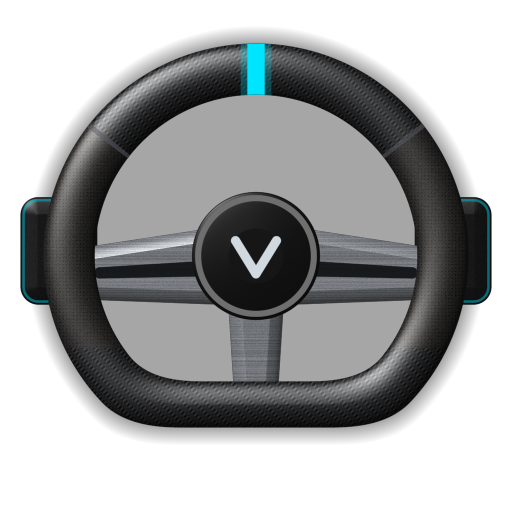
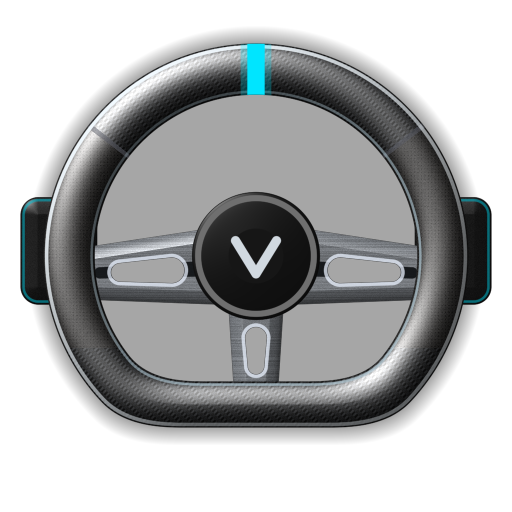
Translucent steering wheel: 40% idle, 72% held with timed fades, spoke cutouts and rim lighting, lerp_angle spring-back
Claude-Session: https://claude.ai/code/session_014izHVAaB3ZdP2HfL8CMfu2

Changed region(s): [[0.0625, 0.0625, 0.9375, 0.8438], [0.3125, 0.2188, 0.3438, 0.25], [0.2188, 0.3125, 0.25, 0.3438]]

diff --git a/tools/build_steering_wheel.py b/tools/build_steering_wheel.py
@@ -2,8 +2,10 @@
 
 Writes godot/assets/ui/controls/steering_wheel.png, 512x512 RGBA, drawn
 procedurally (no source art, so it is ours to license): carbon-fibre top
-section, perforated leather grips, brushed-metal spokes, paddle shifters
-behind the horizontal spokes and a cyan 12 o'clock stripe. Rendered at 2x and
+section, perforated leather grips, brushed-metal spokes with see-through
+cutouts, paddle shifters behind the horizontal spokes, high-contrast
+specular rim lighting and a cyan 12 o'clock stripe. The game shows it at
+40-72% opacity, so the bright edges carry the silhouette. Rendered at 2x and
 downsampled for clean edges. Lit from the upper left.
 
     python3 tools/build_steering_wheel.py
@@ -113,6 +115,16 @@ over(shade(height, base * 1.15, spec=0.8, shininess=35, ambient=0.4), a)
 # Dark inlay along the side spokes.
 inlay = np.minimum(bar(-0.11, 0.025, -(R_IN - 0.01), 0.033, 0.03, 0.022)[0], bar(0.11, 0.025, R_IN - 0.01, 0.033, 0.03, 0.022)[0])
 over(np.broadcast_to(np.array([0.05, 0.06, 0.07]), (N, N, 3)), coverage(inlay) * 0.9)
+# Hollow cutouts through the spokes: the road shows through them.
+slots = [bar(-0.165, 0.028, -0.265, 0.032, 0.05, 0.036)[0], bar(0.165, 0.028, 0.265, 0.032, 0.05, 0.036)[0],
+	bar(0.0, 0.16, 0.0, 0.215, 0.042, 0.032)[0]]
+slot_sdf = np.minimum.reduce(slots)
+cut = coverage(slot_sdf)
+# A bright chamfer around each cutout, lit from the upper left.
+chamfer = coverage(np.abs(slot_sdf - 0.004) - 0.0035) * (1 - cut)
+over(np.broadcast_to(np.array([0.92, 0.95, 1.0]), (N, N, 3)), chamfer * 0.75)
+rgb = rgb * (1 - cut[..., None])
+alpha = alpha * (1 - cut)
 
 # --- rim
 outer = smax(r - R_OUT, y - FLAT_OUT, 0.05)
@@ -137,12 +149,19 @@ gy = (y * 150.0) % 1.0 - 0.5
 dots = (np.hypot(gx, gy) < 0.2).astype(float)
 leather = (0.12 + 0.02 * rng.normal(0, 1, (N, N)))[..., None] * np.array([1.0, 0.97, 0.95]) - 0.05 * dots[..., None]
 base = np.where(top[..., None] | bottom[..., None], carbon, leather)
-lit = shade(tube, base * 1.6, spec=0.55, shininess=18, ambient=0.28)
+lit = shade(tube, base * 1.6, spec=0.85, shininess=14, ambient=0.26)
 over(lit, a)
 # Stitching where carbon meets leather: thin light seams across the rim.
 for edge_ang in (-52, 52):
     seam = np.abs(np.degrees(ang) - edge_ang) < 0.7
     over(np.broadcast_to(np.array([0.35, 0.36, 0.4]), (N, N, 3)), a * seam * 0.5)
+# High-contrast rim lighting: a crisp light line along the outer edge, bright
+# where it faces the light (upper left), and a fainter one along the inner edge.
+facing = np.clip(0.35 + 0.65 * (-(x * 0.6 + y * 0.8) / np.maximum(r, 1e-6)), 0, 1)
+outer_line = coverage(np.abs(outer + 0.006) - 0.0035) * a
+over(np.broadcast_to(np.array([0.95, 0.98, 1.0]), (N, N, 3)), outer_line * (0.35 + 0.65 * facing))
+inner_line = coverage(np.abs(inner - 0.006) - 0.0025) * a
+over(np.broadcast_to(np.array([0.75, 0.85, 0.9]), (N, N, 3)), inner_line * (0.25 + 0.4 * (1 - facing)))
 # The 12 o'clock stripe.
 stripe = coverage(np.maximum(np.abs(x) - 0.017, rim)) * (y < 0)
 over(np.broadcast_to(CYAN, (N, N, 3)), stripe)

diff --git a/README.md b/README.md
@@ -400,10 +400,13 @@ work. An item below that needs a Forward+-only feature is desktop-only.
     wheel sprite (`assets/ui/controls/steering_wheel.png`, 512 px, drawn by
     `tools/build_steering_wheel.py`: carbon top, perforated leather grips,
     brushed spokes, paddles, cyan 12 o'clock stripe) in the bottom left
-    corner, no box or arrows. It turns about its hub up to ±135° with the
-    thumb and eases back when released (plain easing, not `lerp_angle`,
-    which would take the "short" way round over 270° of lock), sits at
-    0.75 opacity until touched, and grabs touches within 1.2× its radius
+    corner, no box or arrows; its spokes have see-through cutouts and a
+    bright rim light keeps the outline legible. It turns about its hub up
+    to ±135° with the thumb and springs back with `lerp_angle` (a 270°
+    lock-to-lock flick eases straight across instead, since `lerp_angle`
+    would go over the top). It rests at 40% opacity so the road shows
+    through, fades to 72% in 0.12 s when touched and back in 0.25 s, and
+    grabs touches within 1.2× its radius
     (`RaceInput.on_wheel`; power-up slots win where they overlap). The
     standings show only the car ahead, you (cyan) and the car behind, as
     shadowed text without a box. The mirror is a rounded, dark glass
